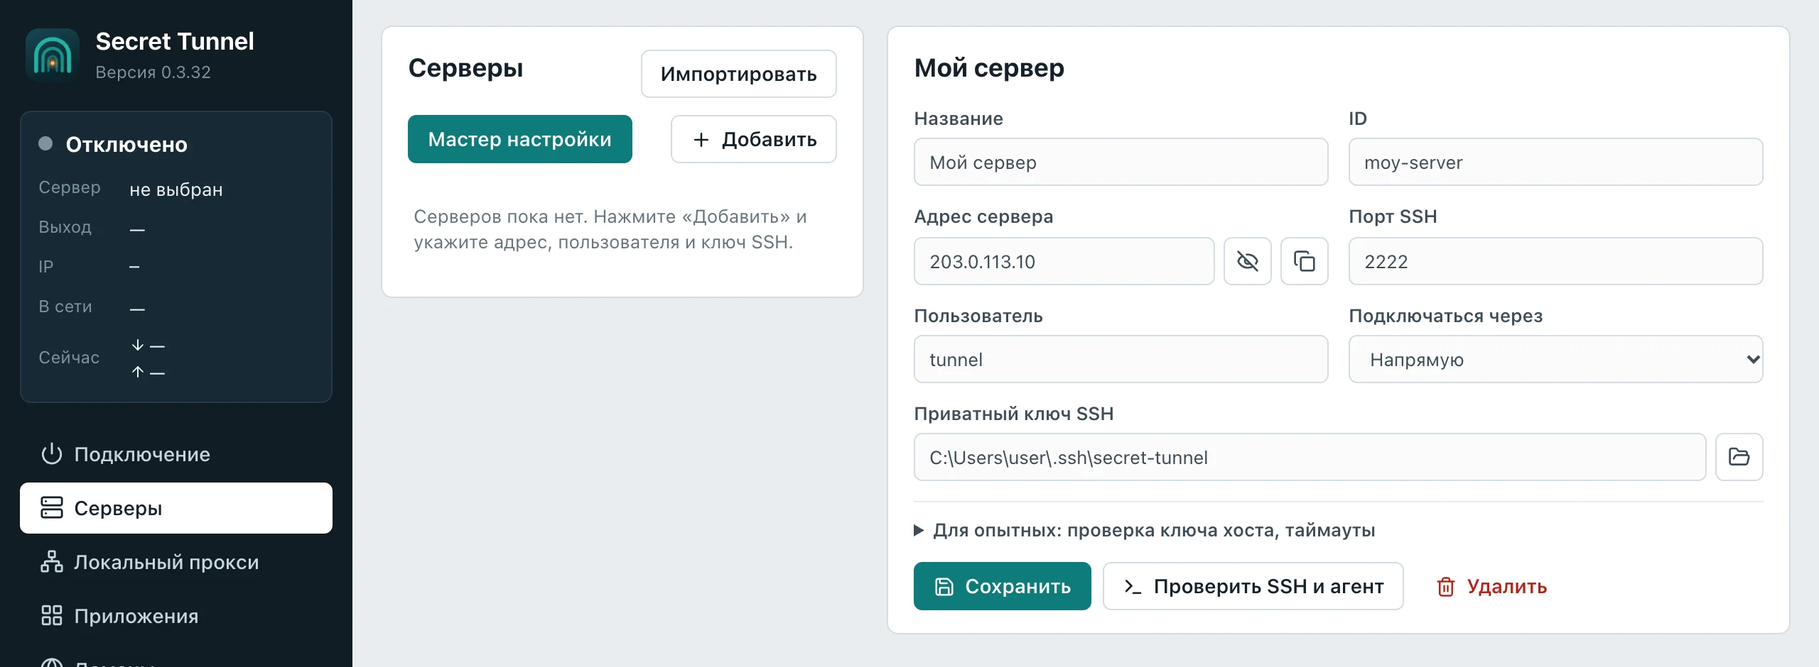
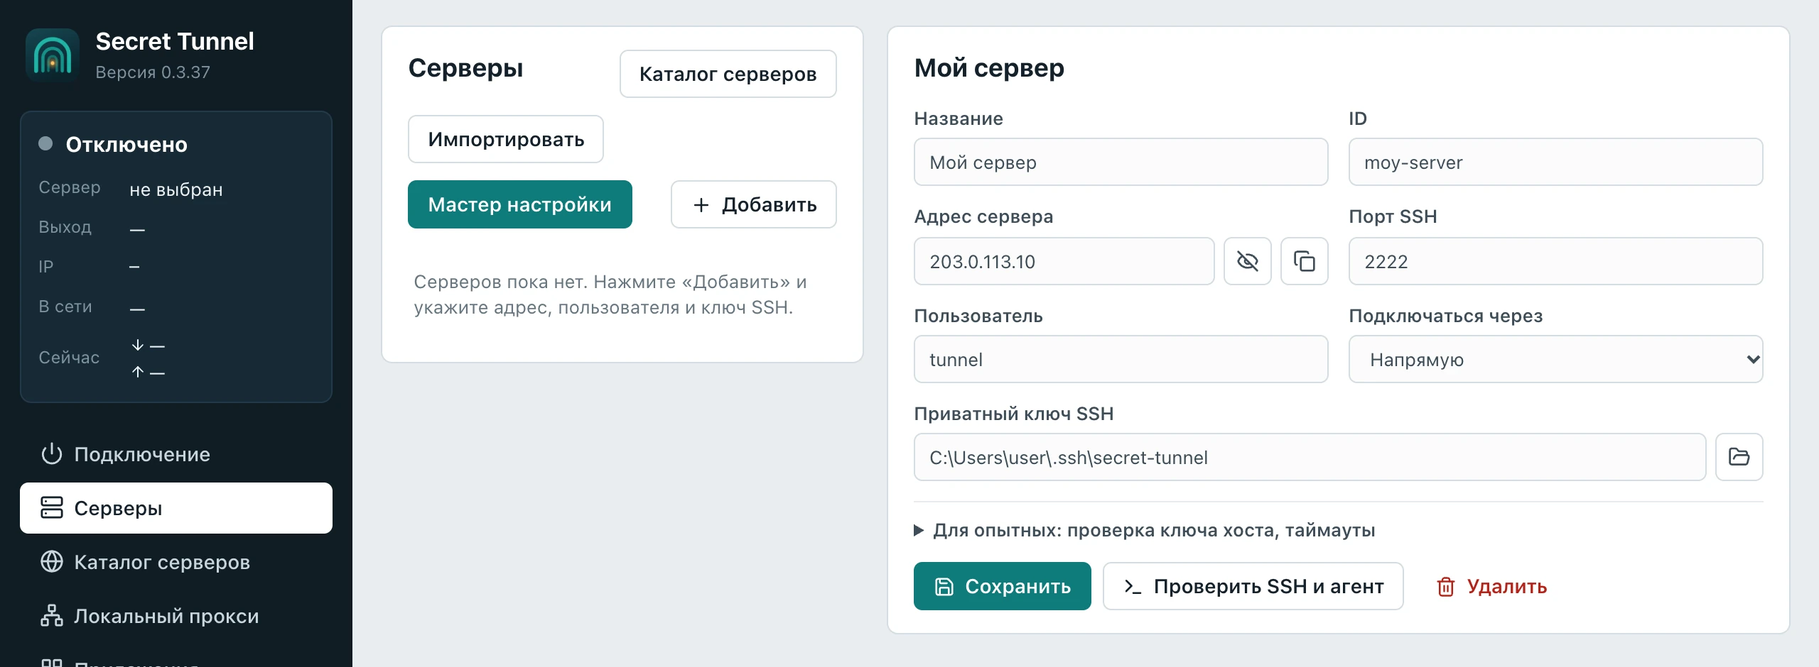
Release Secret Tunnel 0.3.37 with the hosting catalog
Document provider comparison, refresh the affected guide screenshots and ship the catalog screens with a common app/agent version. Validation passed: 82 desktop tests, 41 core tests, 13 updater/publication tests, 9 catalog tests, iOS XCTest and mobile/TV compilation.

diff --git a/site/guide.html b/site/guide.html
@@ -54,6 +54,7 @@
         <li class="group">Сервер</li>
         <li><a href="#ssh">Как работает SSH</a></li>
         <li><a href="#need">Что понадобится</a></li>
+        <li><a href="#hosting-catalog">Каталог серверов</a></li>
         <li><a href="#terminal">1. Открыть терминал</a></li>
         <li><a href="#login">2. Войти по паролю</a></li>
         <li><a href="#key">3. Создать ключ</a></li>
@@ -100,10 +101,24 @@
           <li><b>Данные от хостера</b>: IP-адрес, логин (обычно <code>root</code>) и пароль. Обычно они приходят письмом или лежат в панели управления.</li>
           <li><b>Компьютер</b>: macOS 15 или новее, Windows 10 или 11. Для Linux приложения пока нет, но сервер с Linux настраивается так же, как с macOS, — шаги 1–7.</li>
         </ul>
-        <p>Для уже купленного сервера откройте «Серверы» → «Мастер настройки» в тестовой версии приложения. На Android и iOS этот экран находится в разделе «Ещё». Мастер принимает готовый ключ либо создаёт отдельный ключ после входа по логину и паролю, предлагает подтвердить отпечаток сервера и проверяет агент. Если агент отсутствует, мастер предложит установить его. Ход настройки и ошибки отображаются в журнале мастера.</p>
+        <p>Для уже купленного сервера откройте «Серверы» → «Мастер настройки». На Android и iOS этот экран находится в разделе «Ещё». Мастер принимает готовый ключ либо создаёт отдельный ключ после входа по логину и паролю, предлагает подтвердить отпечаток сервера и проверяет агент. Если агент отсутствует, мастер предложит установить его. Ход настройки и ошибки отображаются в журнале мастера.</p>
         <p>Если сервер уже настроен на другом устройстве, начиная с версии 0.3.33 можно перенести его через <b>«Серверы» → «Поделиться»</b>: QR-кодом, ссылкой или зашифрованным файлом <code>.stprofile</code>. На принимающем устройстве выберите <b>«Импортировать»</b> и введите отдельный код переноса. Для Android TV сохраните файл на флешку и откройте его через системный выбор документов. <a href="knowledge.html#profile-transfer">Как защищён перенос и что в него входит</a>.</p>
         <p>Мы сделаем на сервере четыре вещи: вход по ключу вместо пароля, отдельного пользователя <code>tunnel</code> для туннеля, порт SSH <code>2222</code> вместо стандартного <code>22</code> и небольшой агент, через который пойдёт трафик.</p>
         <p class="note">Во всех командах вместо <code class="v-ip">203.0.113.10</code> должен стоять адрес вашего сервера. <span class="site-only">Впишите его в поле «Адрес сервера от хостера», и он подставится сам.</span></p>
+      </article>
+
+      <article class="doc" id="hosting-catalog">
+        <h2><a href="#hosting-catalog">Если VPS ещё нет: каталог серверов</a></h2>
+        <p>На компьютере откройте <b>«Каталог серверов»</b> в боковом меню; на Android — вкладку <b>«Каталог»</b>, на Android TV — одноимённый пункт меню. В мастере настройки нажмите <b>«Пока нет сервера»</b>. На мобильных устройствах «Статистика» находится в «Ещё».</p>
+        <ol>
+          <li>Выберите страну сервера. Флаг обозначает расположение VPS, а не страну компании. В карточке видны месячная цена, CPU, память, диск и заявленная скорость порта; налоги, доплаты и лимиты — в «Подробнее».</li>
+          <li>Закройте защищаемые приложения, затем остановите свой туннель перед замером. После остановки защита от прямого трафика может прекратиться. Нажмите <b>«Проверить задержку»</b>: приложение делает пять коротких TCP-подключений из текущей сети. Другой VPN может изменить результат. Это не ICMP-пинг и не проверка пропускной способности.</li>
+          <li>Включите <b>«Сначала с меньшей задержкой»</b> для сравнения. Если нет подтверждённого тестового узла, карточка остаётся с отметкой <b>«Нет узла / замер недоступен»</b>. Таймаут тестового порта не доказывает недоступность VPS.</li>
+          <li><b>«Сайт хостера»</b> открывает сайт провайдера. Покупка происходит у него; окончательные цены, наличие, условия доступа и оплаты проверьте перед заказом.</li>
+          <li>Получив фактические данные сервера, нажмите <b>«Сервер уже куплен — настроить SSH»</b>. Мастер продолжит с выбора способа входа. Публичные тестовые адреса не предназначены для настройки вашего SSH-подключения.</li>
+        </ol>
+        <figure class="shot"><img src="assets/guide/hosting-catalog.webp" width="1280" height="800" alt="Каталог серверов: фильтры стран, карточки хостеров, цены и проверка задержки"><figcaption>Пример интерфейса. Список и тарифы обновляются отдельно от приложения; скорость порта не гарантирует скорость SSH.</figcaption></figure>
+        <p>Каталог обновляется ежедневно из официальных источников. <b>«Обновить каталог»</b> загружает опубликованные данные. Ошибка сети или источника сохраняет последнюю корректную копию и дату проверки конкретного тарифа.</p>
       </article>
 
       <p class="part">Сервер</p>
@@ -338,8 +353,8 @@ PASS STMUX003: TCP half-close; empty/voice/51200-byte UDP; 24 isolated associati
       <article class="doc step" id="add-server">
         <h2><a href="#add-server">9. Добавьте сервер</a></h2>
         <p>Откройте вкладку «Серверы» и нажмите «Добавить».</p>
-        <figure class="shot" data-shot="server-form-mac" data-pins="45.10,20.85;70.77,24.34;94.67,24.34;65.14,39.06;94.67,39.06;70.77,53.78;94.67,53.78;89.47,68.50;96.69,68.50;59.01,87.90;75.54,87.90" data-os="mac linux"><img src="assets/guide/server-form-mac.webp" width="1280" height="470" alt="Вкладка «Серверы»: форма нового сервера с заполненными полями"></figure>
-        <figure class="shot" data-shot="server-form-win" data-pins="45.10,20.85;70.77,24.34;94.67,24.34;65.14,39.06;94.67,39.06;70.77,53.78;94.67,53.78;89.47,68.50;96.69,68.50;59.01,87.90;75.54,87.90" data-os="win"><img src="assets/guide/server-form-win.webp" width="1280" height="470" alt="Вкладка «Серверы» в Windows: форма нового сервера с путём к ключу C:\Users\user\.ssh\secret-tunnel"></figure>
+        <figure class="shot" data-shot="server-form-mac" data-pins="45.10,30.64;70.77,24.34;94.67,24.34;65.14,39.06;94.67,39.06;70.77,53.78;94.67,53.78;89.47,68.50;96.69,68.50;59.01,87.90;75.54,87.90" data-os="mac linux"><img src="assets/guide/server-form-mac.webp" width="1280" height="470" alt="Вкладка «Серверы»: форма нового сервера с заполненными полями"></figure>
+        <figure class="shot" data-shot="server-form-win" data-pins="45.10,30.64;70.77,24.34;94.67,24.34;65.14,39.06;94.67,39.06;70.77,53.78;94.67,53.78;89.47,68.50;96.69,68.50;59.01,87.90;75.54,87.90" data-os="win"><img src="assets/guide/server-form-win.webp" width="1280" height="470" alt="Вкладка «Серверы» в Windows: форма нового сервера с путём к ключу C:\Users\user\.ssh\secret-tunnel"></figure>
         <ol class="legend">
           <li><b>Добавить</b> — открывает пустую форму справа.</li>
           <li><b>Название</b> — любое, оно видно только вам: «Мой сервер», «Нидерланды».</li>

diff --git a/site/knowledge.html b/site/knowledge.html
@@ -44,6 +44,7 @@
         <li class="group">Начало</li>
         <li><a href="#start">Как это устроено</a></li>
         <li><a href="#server">Сервер</a></li>
+        <li><a href="#hosting-catalog">Каталог серверов</a></li>
         <li><a href="#keys">SSH-ключ</a></li>
         <li><a href="#agent">Агент на сервере</a></li>
         <li><a href="#host-key">Отпечаток сервера</a></li>
@@ -101,6 +102,14 @@
           <li>Отдельный пользователь без прав администратора — хорошая привычка. Агенту sudo не нужен.</li>
           <li>Если ваш сервер доступен через SSH-шлюз, добавьте оба сервера. Порядок настройки описан в статье <a href="#servers">Серверы и цепочки</a>.</li>
         </ul>
+      </article>
+
+      <article class="doc" id="hosting-catalog" data-keywords="хостер провайдер каталог тариф цена VPS пинг задержка страна флаг">
+        <h2><a href="#hosting-catalog">Каталог серверов</a></h2>
+        <p>«Каталог серверов» на компьютере и «Каталог» на Android/Android TV помогает сравнить локации и перейти на сайт хостера. В мастере он открывается через «Пока нет сервера». Флаг обозначает страну сервера; страна компании указана отдельно в подробностях.</p>
+        <p>«Проверить задержку» делает пять коротких TCP-подключений из текущей сети. Результат — медиана, а не ICMP-пинг, скорость передачи или гарантия качества VPS. При включённом туннеле приложения замер недоступен. Перед его остановкой закройте защищаемые программы; другой VPN тоже может влиять на маршрут.</p>
+        <p>Карточка без тестового узла остаётся с ценой и характеристиками, но без задержки. Сайт компании не используется вместо VPS. «Подробнее» показывает источник, дату, налоги, доплаты и ограничения трафика. Отсутствие TCP-ответа не означает недоступность VPS.</p>
+        <p>Семь провайдеров обновляются ежедневно из официальных API и страниц. При отказе источника сохраняются предыдущие факты и дата; ошибки каталога не меняют SSH-профили. «Сайт хостера» открывает заказ у провайдера, а «Сервер уже куплен — настроить SSH» возвращает в мастер. Используйте данные именно купленного сервера. <a href="guide.html#hosting-catalog">Порядок выбора с иллюстрацией</a>.</p>
       </article>
 
       <article class="doc" id="keys" data-keywords="ssh-keygen ed25519 ключ authorized_keys ssh-copy-id wsl windows команды публичный приватный">

diff --git a/docs/RELEASE-NOTES.md b/docs/RELEASE-NOTES.md
@@ -1,14 +1,17 @@
-Secret Tunnel 0.3.36 улучшает проверку IPv6 и его обработку внутри SSH-туннеля.
+Secret Tunnel 0.3.37 добавляет каталог хостеров с проверкой задержки из вашей сети.
 
-- TCP и UDP проверяются отдельно через SSH-сервер. Успешного TCP-подключения недостаточно, чтобы считать UDP и QUIC доступными.
-- Android включает IPv6 только после успеха обеих проверок и повторяет их при переподключении, включая смену сети. Если IPv6 недоступен, он блокируется внутри VPN, а IPv4 продолжает работать.
-- Встроенный SOCKS отклоняет недоступные числовые IPv6-назначения без прямого запасного соединения. Перенаправление DNS через SSH и адреса вида `::ffff:IPv4` сохраняют работоспособность.
-- Копируемый журнал Android показывает отдельные результаты IPv6 TCP и UDP.
+- Отдельный экран на macOS, Windows, Android и Android TV: страны, флаги локаций, месячные цены, CPU/RAM/диск, условия трафика и ссылки на провайдеров.
+- Семь хостеров: OVHcloud, ITLDC, Timeweb Cloud, FirstVDS, IPHoster, Vultr и Hetzner. Данные обновляются ежедневно через GitHub Actions отдельно от приложения.
+- «Проверить задержку» выполняет пять коротких TCP-подключений. Можно фильтровать страны, сортировать и отменять проверки. Тарифы без подтверждённого тестового узла остаются в списке без сетевого замера.
+- «Сайт хостера» открывает сайт провайдера, а «Сервер уже куплен — настроить SSH» возвращает в мастер. Тестовые IP не становятся SSH-профилями.
+- Последняя корректная копия сохраняется при ошибках; у неподтверждённого тарифа остаётся прежняя дата проверки. Каталог не меняет ключи и настройки подключения.
 
-В экспериментальном iOS-клиенте добавлен захват обеих семей адресов и политика полного туннеля; для цепочки используется адрес первого SSH-узла. Изменения iOS доступны в исходниках, пакет iOS в этот релиз не входит. Системные исключения iOS сохраняются; изменения не являются независимым kill switch для десктопа.
+Задержка TCP не является ICMP-пингом или гарантией скорости VPS. Финальные цены, налоги, доступность оплаты и ресурсы уточняйте у хостера. При активном туннеле приложения замер блокируется; перед остановкой туннеля закройте защищаемые программы.
 
-Проверены четыре режима доступности IPv6 и смена Wi-Fi на Android 14 в эмуляторе, TCP/UDP на физическом iPad с доступным и недоступным IPv6, а также цепочка из двух SSH. Один валидный контроль на iPad подтвердил блокировку обхода через явно выбранный Wi-Fi; в двух повторных прогонах контрольное соединение было недоступно ещё до VPN. Перехват на реальных Windows и macOS в этих прогонах отдельно не проверялся.
+В экспериментальном iOS-клиенте есть тот же каталог с интерфейсом для iPhone/iPad. Пакет iOS в публичный релиз не входит.
 
-**Обновите приложения и агент на конечном SSH-сервере до 0.3.36 через раздел «Агент на сервере»: клиент и агент используют общую версию.**
+Проверены адаптеры, валидация и кэш, отмена, публикация сайта и сохранность настроек; сборки desktop/mobile, обновление каталога и реальные TCP-подключения на iPad Simulator.
 
-В релиз входят macOS, Windows, Android, Android TV и агент Linux x86_64 с общей версией 0.3.36.
+**Обновите приложения и агент на конечном SSH-сервере до 0.3.37: они используют общую версию.**
+
+В релиз входят macOS universal (Apple Silicon и Intel), Windows x64 (установщик и portable), Android, Android TV и агент Linux x86_64.

diff --git a/docs/SETUP-FOR-AI.md b/docs/SETUP-FOR-AI.md
@@ -21,7 +21,7 @@ Secret Tunnel ведёт трафик выбранных программ чер
 
 ## Start here: что спросить
 
-В новой тестовой версии есть «Мастер настройки» на экране «Серверы» (Android и iOS — «Ещё» → «Серверы»). Для уже купленного сервера он принимает готовый ключ либо создаёт отдельный ключ после входа по логину и паролю. Пользователь подтверждает отпечаток сервера, затем мастер проверяет ключ и агент и при необходимости предлагает установку агента. Каждый этап виден в журнале мастера. На обычном сервере с входом по паролю терминал для этой настройки не требуется.
+В приложении есть «Мастер настройки» на экране «Серверы» (Android и iOS — «Ещё» → «Серверы»). Для уже купленного сервера он принимает готовый ключ либо создаёт отдельный ключ после входа по логину и паролю. Пользователь подтверждает отпечаток сервера, затем мастер проверяет ключ и агент и при необходимости предлагает установку агента. Каждый этап виден в журнале мастера. На обычном сервере с входом по паролю терминал для этой настройки не требуется.
 
 В тестовой ветке доступен перенос: у сохранённого сервера нажмите «Поделиться». Можно показать QR-код, скопировать ссылку `secrettunnel://import#stp1.…` или сохранить файл `.stprofile`. На другом устройстве откройте «Серверы» → «Импортировать», сканируйте QR/вставьте ссылку/откройте файл, введите отдельный код переноса и подтвердите список. Android TV открывает файл с флешки через системный выбор документов. Цепочки переносятся вместе с промежуточными серверами. Существующие профили и выбор приложений не заменяются.
 
@@ -35,6 +35,24 @@ Secret Tunnel ведёт трафик выбранных программ чер
 Дальше идите по шагам. Шаги 1–4 делаются один раз на сервер. Если хостер выдал только логин `root` и пароль, сначала пройдите «Шаг 0».
 
 Человеку удобнее та же инструкция с картинками и кнопками копирования: https://openm1ke.github.io/Secret-Tunnel/guide.html — можно дать ссылку на нужный шаг (`#login`, `#key`, `#harden`, `#agent`, `#add-server`, `#apps`).
+
+## Если сервер ещё не куплен
+
+Предложите «Каталог серверов» на компьютере или «Каталог» на Android/Android TV.
+В мастере он открывается через «Пока нет сервера». Флаг обозначает локацию VPS;
+цены, ограничения и даты доступны в карточках. Данные обновляются отдельно от
+приложения, при ошибках сохраняется последняя корректная копия.
+
+«Проверить задержку» измеряет медиану пяти TCP-подключений из сети устройства,
+а не ICMP-пинг и не пропускную способность. Перед остановкой туннеля ради
+замера нужно закрыть защищаемые приложения: после остановки защита может
+прекратиться. Не отключайте сторонний VPN без согласования с пользователем.
+Карточки без подтверждённого узла показываются без сетевого замера.
+Не подменяйте проверку VPS пингом сайта компании и не обещайте скорость по тарифу.
+
+Покупка выполняется у хостера. Не покупайте VPS за пользователя и не подставляйте
+публичный тестовый IP в SSH-профиль. После получения настоящего адреса и данных
+для входа используйте «Сервер уже куплен — настроить SSH».
 
 ## Шаг 0. Сервер с паролем root: ключ, пользователь, порт
 

diff --git a/docs/help/knowledge.md b/docs/help/knowledge.md
@@ -28,6 +28,18 @@ Secret Tunnel передаёт трафик выбранных программ 
 - Отдельный пользователь без прав администратора — хорошая привычка. Агенту sudo не нужен.
 - Если ваш сервер доступен через SSH-шлюз, добавьте оба сервера. Порядок настройки описан в статье [Серверы и цепочки](#servers).
 
+<a id="hosting-catalog"></a>
+
+## Каталог серверов
+
+«Каталог серверов» на компьютере и «Каталог» на Android/Android TV помогает сравнить локации и перейти на сайт хостера. В мастере он открывается через «Пока нет сервера». Флаг обозначает страну сервера; страна компании указана отдельно в подробностях.
+
+«Проверить задержку» делает пять коротких TCP-подключений из текущей сети. Результат — медиана, а не ICMP-пинг, скорость передачи или гарантия качества VPS. При включённом туннеле приложения замер недоступен. Перед его остановкой закройте защищаемые программы; другой VPN тоже может влиять на маршрут.
+
+Карточка без тестового узла остаётся с ценой и характеристиками, но без задержки. Сайт компании не используется вместо VPS. «Подробнее» показывает источник, дату, налоги, доплаты и ограничения трафика. Отсутствие TCP-ответа не означает недоступность VPS.
+
+Семь провайдеров обновляются ежедневно из официальных API и страниц. При отказе источника сохраняются предыдущие факты и дата; ошибки каталога не меняют SSH-профили. «Сайт хостера» открывает заказ у провайдера, а «Сервер уже куплен — настроить SSH» возвращает в мастер. Используйте данные именно купленного сервера. [Порядок выбора с иллюстрацией](https://openm1ke.github.io/Secret-Tunnel/guide.html#hosting-catalog).
+
 <a id="keys"></a>
 
 ## SSH-ключ

diff --git a/CHANGELOG.md b/CHANGELOG.md
@@ -1,5 +1,13 @@
 # Changelog
 
+## 0.3.37 — 2026-11-28
+
+- Add a dedicated hosting catalog to desktop, Android and Android TV, with country flags, monthly prices, hardware, traffic conditions and provider links. The experimental iOS client includes layouts for iPhone and iPad.
+- Compare latency with five short TCP connections from the current device. Filter countries, sort results, cancel checks and return to the SSH setup wizard after purchasing a VPS. Providers without a confirmed endpoint remain visible without a network probe.
+- Include OVHcloud, ITLDC, Timeweb Cloud, FirstVDS, IPHoster, Vultr and Hetzner. Daily GitHub Actions refreshes official sources and publishes validated data independently of app releases.
+- Preserve the last valid catalog and each offer's original verification date on source failures. Keep catalog data separate from SSH profiles, reject unsafe test addresses and refuse measurements while the application's tunnel is active.
+- Validate adapters, cache, cancellation, site publication and the shared contract. Verify desktop/mobile builds, iPad refresh and real TCP checks. Latency and advertised port speeds do not guarantee rented VPS performance.
+
 ## 0.3.36 — 2026-11-26
 
 - Verify server IPv6 TCP and UDP egress independently inside SSH. Android enables IPv6 only when both checks succeed, and repeats them after reconnecting or changing networks; otherwise IPv6 stays blocked while IPv4 remains available.
